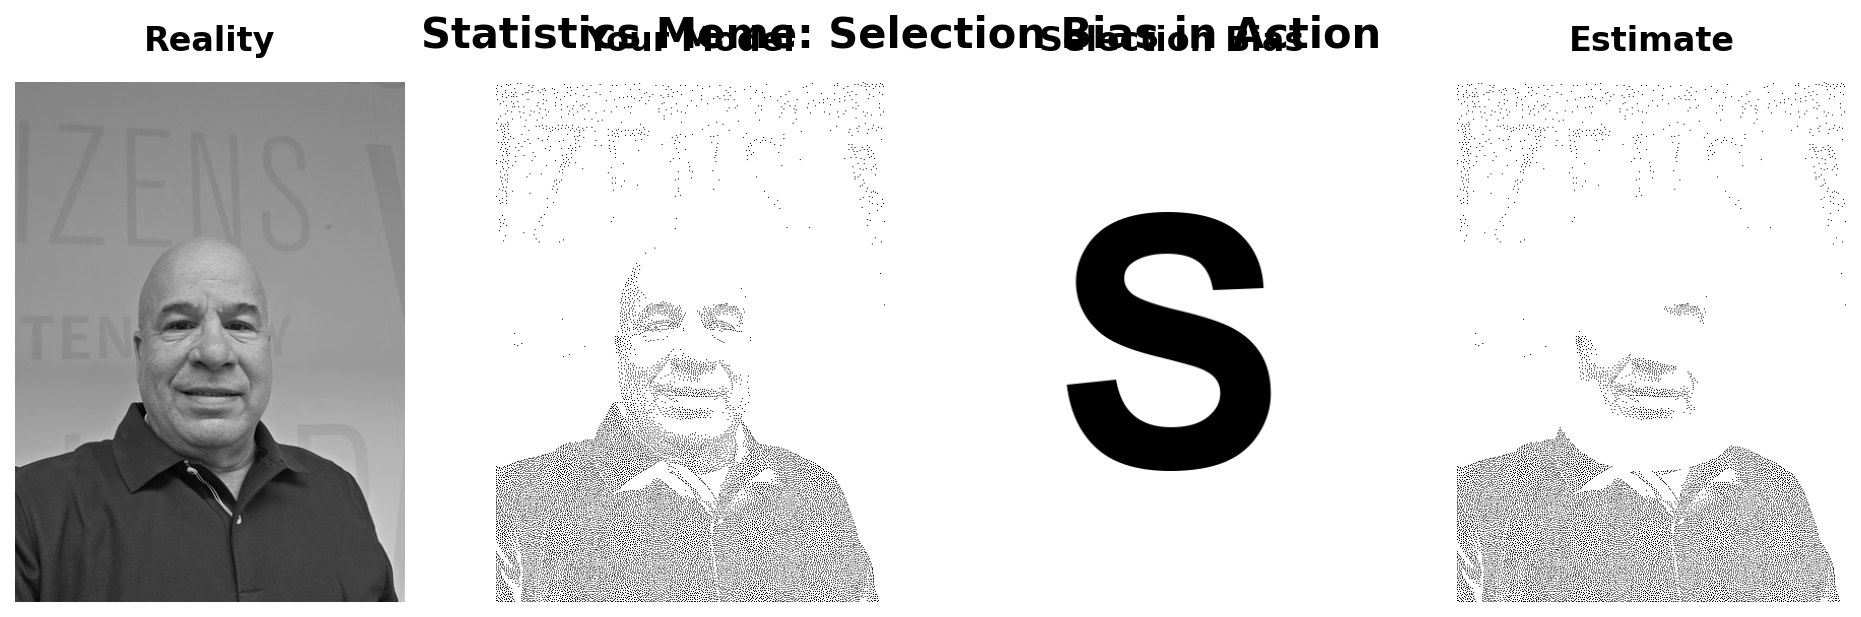
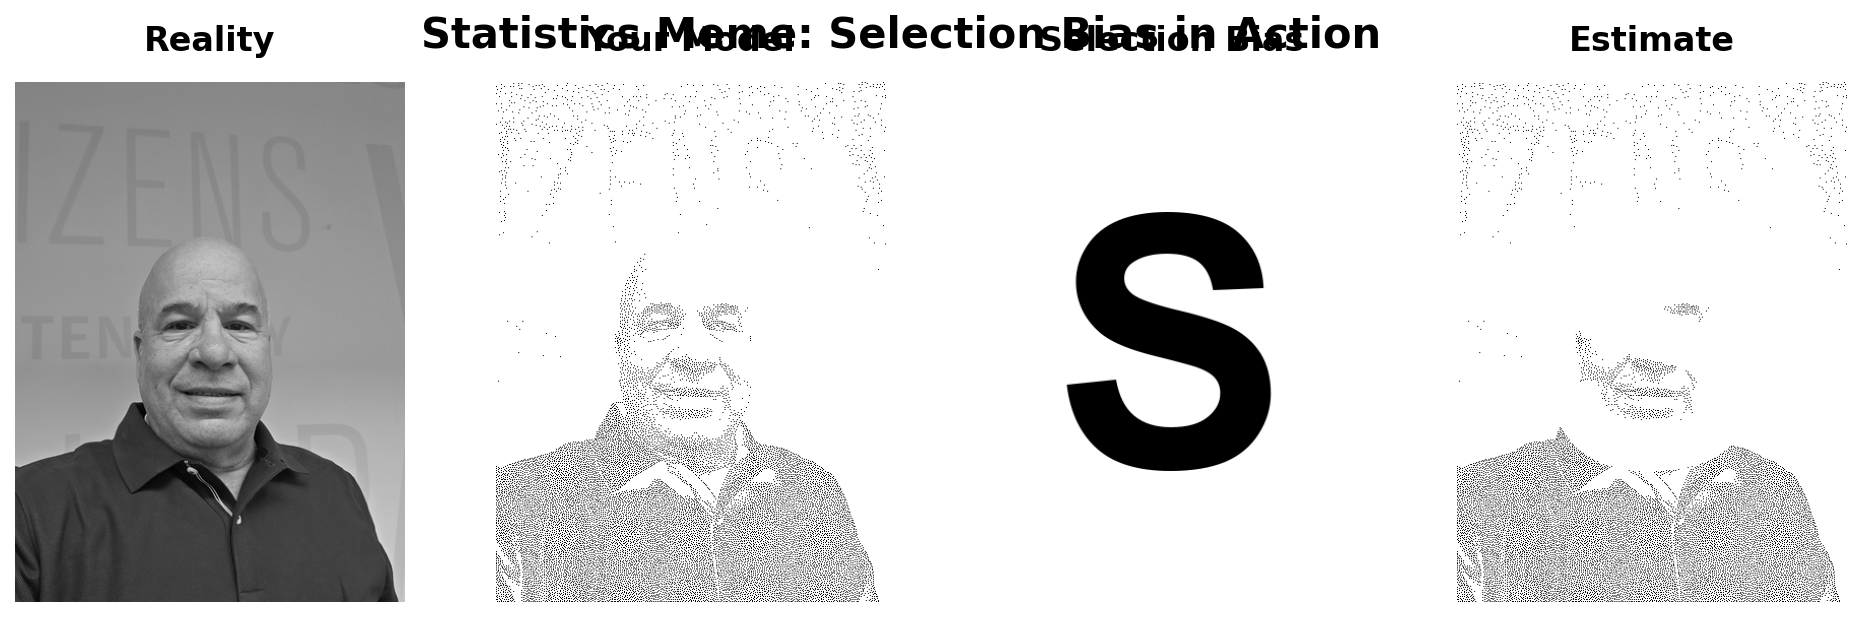
Update selection bias demonstration with improved layout and rendered output

diff --git a/index.html b/index.html
@@ -72,7 +72,7 @@ ul.task-list li input[type="checkbox"] {
 <div class="quarto-layout-cell" style="flex-basis: 50.0%;justify-content: flex-start;">
 <div id="final-meme-output" class="quarto-figure quarto-figure-center anchored">
 <figure class="figure">
-<p><img src="index_files/figure-html/final-meme-output-output-1.png" width="427" height="566" class="figure-img"></p>
+<p><img src="index_files/figure-html/final-meme-output-output-1.png" width="427" height="374" class="figure-img"></p>
 <figcaption>Statistics meme demonstrating selection bias</figcaption>
 </figure>
 </div>
